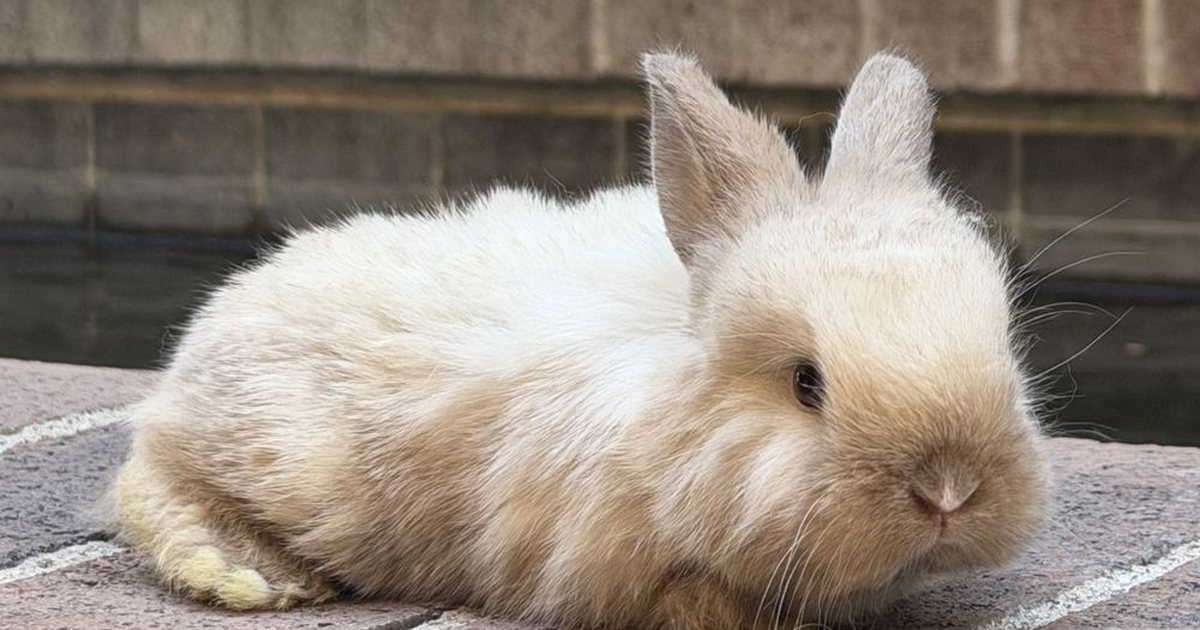
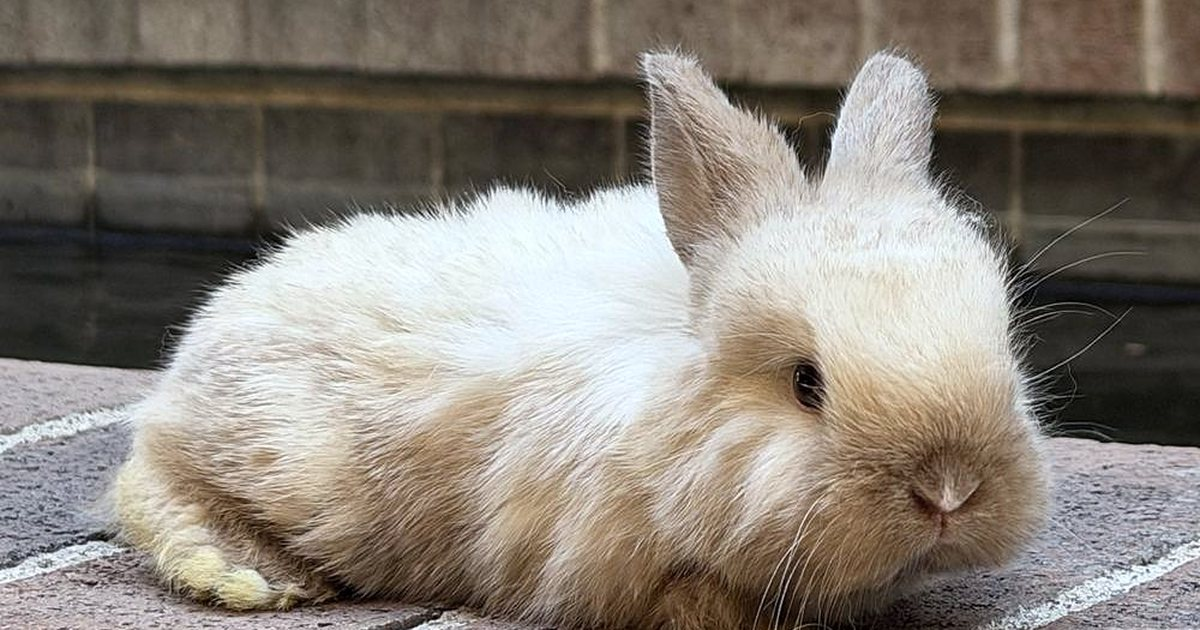
The photo system: every picture through one finish, and the guard that keeps it so
polish.py gives every picture the same finish (metadata stripped, damped white balance, exposure, levels, saturation band, per-slot size, one unsharp mask, progressive JPEG) and records it in a ledger; phototest.py fails the build on any picture that is unpolished, hand-edited, from an older pipeline, unreferenced or outside the measured bands. Ten photographs re-finished, the share images regenerated, the unreferenced img/hero.jpg retired.

Claude-Session: https://claude.ai/code/session_01VUqLFuDNtaLypySjv9cGdS

diff --git a/litters.html b/litters.html
@@ -379,7 +379,7 @@ h1,h2,h3{text-wrap:balance}
       <a class="allback" href="#all">&larr; All litters</a>
       <div class="litter-card">
         <div class="litter-media" data-note="Six of them, in a nest of shavings and the fur their mother pulled to line it.">
-          <img src="photos/litter-2026-08-27.jpg?v=06a932f4" width="1400" height="1050"
+          <img src="photos/litter-2026-08-27.jpg?v=a335df58" width="1400" height="1050"
                alt="Six newborn kits curled together in a wooden nest box lined with wood shavings and pulled fur">
         </div>
         <div class="litter-body">
@@ -401,7 +401,7 @@ h1,h2,h3{text-wrap:balance}
             <h3>As they grow</h3>
             <div class="frames">
               <figure>
-                <img src="photos/litter-2026-08-27-2026-09-02.jpg?v=b1cf4b52" width="1050" height="1400" loading="lazy"
+                <img src="photos/litter-2026-08-27-2026-09-02.jpg?v=41251654" width="1050" height="1400" loading="lazy"
                      alt="Six six-day-old kits on the floor beside the cage, one white and five fawn">
                 <figcaption><time datetime="2026-09-02">2 Sep 2026</time></figcaption>
                 <p>Six days old. One white and five fawn.</p>
@@ -421,7 +421,7 @@ h1,h2,h3{text-wrap:balance}
       <a class="allback" href="#all">&larr; All litters</a>
       <div class="litter-card">
         <div class="litter-media" data-note="The day they arrived, before their eyes were open.">
-          <img src="photos/litter-2026-07-28.jpg?v=13920cee" width="1400" height="1050"
+          <img src="photos/litter-2026-07-28.jpg?v=5d9e67b0" width="1400" height="1050"
                alt="Newborn kits curled together in a hay and fur nest box, with a month-old fawn rabbit from the previous litter beside them">
         </div>
         <div class="litter-body">
@@ -450,19 +450,19 @@ h1,h2,h3{text-wrap:balance}
                index.html assigns, or the tile will land on the earlier rabbit. -->
           <div class="whograph">
             <a class="wt" href="index.html#r-teddy" data-rid="teddy">
-              <img src="photos/teddy.jpg?v=9c1bf3c7" alt="Teddy, a fawn Holland Lop cross" loading="lazy">
+              <img src="photos/teddy.jpg?v=9068ff3a" alt="Teddy, a fawn Holland Lop cross" loading="lazy">
               <b>Teddy</b><small>&nbsp;</small>
             </a>
             <a class="wt" href="index.html#r-butterscotch" data-rid="butterscotch">
-              <img src="photos/butterscotch.jpg?v=b2367f95" alt="Butterscotch, a fawn Holland Lop cross" loading="lazy">
+              <img src="photos/butterscotch.jpg?v=4855dad5" alt="Butterscotch, a fawn Holland Lop cross" loading="lazy">
               <b>Butterscotch</b><small>&nbsp;</small>
             </a>
             <a class="wt" href="index.html#r-sundae" data-rid="sundae">
-              <img src="photos/sundae.jpg?v=870ad637" alt="Sundae, a sable point Holland Lop cross" loading="lazy">
+              <img src="photos/sundae.jpg?v=9a03d75c" alt="Sundae, a sable point Holland Lop cross" loading="lazy">
               <b>Sundae</b><small>&nbsp;</small>
             </a>
             <a class="wt" href="index.html#r-cloud" data-rid="cloud">
-              <img src="photos/cloud.jpg?v=f416401b" alt="Cloud, a sable point Holland Lop cross" loading="lazy">
+              <img src="photos/cloud.jpg?v=936bda0a" alt="Cloud, a sable point Holland Lop cross" loading="lazy">
               <b>Cloud</b><small>&nbsp;</small>
             </a>
           </div>
@@ -488,7 +488,7 @@ h1,h2,h3{text-wrap:balance}
       <div class="grid">
 
         <a class="tile" href="#L2026-08-27">
-          <img src="photos/litter-2026-08-27.jpg?v=06a932f4" width="1400" height="1050" loading="lazy"
+          <img src="photos/litter-2026-08-27.jpg?v=a335df58" width="1400" height="1050" loading="lazy"
                alt="Six newborn kits in a nest of wood shavings and pulled fur">
           <div class="tile-body">
             <div class="tile-date">27 August 2026</div>
@@ -497,7 +497,7 @@ h1,h2,h3{text-wrap:balance}
         </a>
 
         <a class="tile" href="#L2026-07-28">
-          <img src="photos/litter-2026-07-28.jpg?v=13920cee" width="1400" height="1050" loading="lazy"
+          <img src="photos/litter-2026-07-28.jpg?v=5d9e67b0" width="1400" height="1050" loading="lazy"
                alt="Newborn kits curled together in a hay and fur nest box">
           <div class="tile-body">
             <div class="tile-date">28 July 2026</div>

diff --git a/index.html b/index.html
@@ -1772,7 +1772,7 @@ body.locked{overflow:hidden}
            the finished animal the copy used to promise.
            NEW FILENAME ON PURPOSE: img/ is cached for a day, so replacing a picture under
            its old name would have left the collar photo on returning visitors' screens. -->
-      <img class="hero-img" src="img/hero-brick.jpg?v=0458a81c"
+      <img class="hero-img" src="img/hero-brick.jpg?v=9773604a"
            alt="Butterscotch, a fawn Holland Lop cross kit, resting on a brick ledge with one ear lopped and one still upright" width="1600" height="1066" fetchpriority="high">
     </div>
   </div>
@@ -2000,7 +2000,7 @@ body.locked{overflow:hidden}
            presentation choice a buyer can see for what it is; a generated
            breeder would be a fake on the one section that promises a record
            you can check, so that line is not crossed. -->
-      <img src="img/about.jpg?v=1b9a9712"
+      <img src="img/about.jpg?v=3a9c523e"
            alt="A white Netherland Dwarf with black around its eyes sitting calmly on William's lap, his hand under it" width="1000" height="1000" loading="lazy">
     </div>
     <div class="rv about-story">
@@ -2137,7 +2137,7 @@ body.locked{overflow:hidden}
     <div class="rv">
       <!-- Real photo: three of William's lops in the travel carrier with pellets and hay —
            the actual animals and the actual gear, which is what this section promises. -->
-      <img src="img/included.jpg?v=0d8bc396"
+      <img src="img/included.jpg?v=a2a15768"
            alt="Three young rabbits inside a mesh travel carrier with a bowl of pellets and fresh hay" width="800" height="1200" loading="lazy">
     </div>
   </div>

diff --git a/r/butterscotch.html b/r/butterscotch.html
@@ -13,7 +13,7 @@
 <meta property="og:site_name" content="Arizona Rabbits">
 <meta property="og:title" content="Butterscotch — Arizona Rabbits">
 <meta property="og:description" content="Fawn Holland Lop cross doe, born 28 July 2026. Hand-raised in Tucson, Arizona.">
-<meta property="og:image" content="https://arizonarabbits.com/img/share-butterscotch.jpg?v=76127894">
+<meta property="og:image" content="https://arizonarabbits.com/img/share-butterscotch.jpg?v=f185644e">
 <meta property="og:image:width" content="1200">
 <meta property="og:image:height" content="630">
 <meta property="og:image:alt" content="Butterscotch, a fawn Holland Lop cross">

diff --git a/r/sundae.html b/r/sundae.html
@@ -13,7 +13,7 @@
 <meta property="og:site_name" content="Arizona Rabbits">
 <meta property="og:title" content="Sundae — Arizona Rabbits">
 <meta property="og:description" content="Sable point Holland Lop cross buck, born 28 July 2026. Hand-raised in Tucson, Arizona.">
-<meta property="og:image" content="https://arizonarabbits.com/img/share-sundae.jpg?v=635a1fb8">
+<meta property="og:image" content="https://arizonarabbits.com/img/share-sundae.jpg?v=7da6ccba">
 <meta property="og:image:width" content="1200">
 <meta property="og:image:height" content="630">
 <meta property="og:image:alt" content="Sundae, a sable point Holland Lop cross">

diff --git a/r/cloud.html b/r/cloud.html
@@ -13,7 +13,7 @@
 <meta property="og:site_name" content="Arizona Rabbits">
 <meta property="og:title" content="Cloud — Arizona Rabbits">
 <meta property="og:description" content="Sable point Holland Lop cross buck, born 28 July 2026. Hand-raised in Tucson, Arizona.">
-<meta property="og:image" content="https://arizonarabbits.com/img/share-cloud.jpg?v=a0d699a6">
+<meta property="og:image" content="https://arizonarabbits.com/img/share-cloud.jpg?v=9cf606d8">
 <meta property="og:image:width" content="1200">
 <meta property="og:image:height" content="630">
 <meta property="og:image:alt" content="Cloud, a sable point Holland Lop cross">

diff --git a/r/teddy.html b/r/teddy.html
@@ -13,7 +13,7 @@
 <meta property="og:site_name" content="Arizona Rabbits">
 <meta property="og:title" content="Teddy — Arizona Rabbits">
 <meta property="og:description" content="Fawn Holland Lop cross doe, born 28 July 2026. Hand-raised in Tucson, Arizona.">
-<meta property="og:image" content="https://arizonarabbits.com/img/share-teddy.jpg?v=1d82bf66">
+<meta property="og:image" content="https://arizonarabbits.com/img/share-teddy.jpg?v=25a75964">
 <meta property="og:image:width" content="1200">
 <meta property="og:image:height" content="630">
 <meta property="og:image:alt" content="Teddy, a fawn Holland Lop cross">
